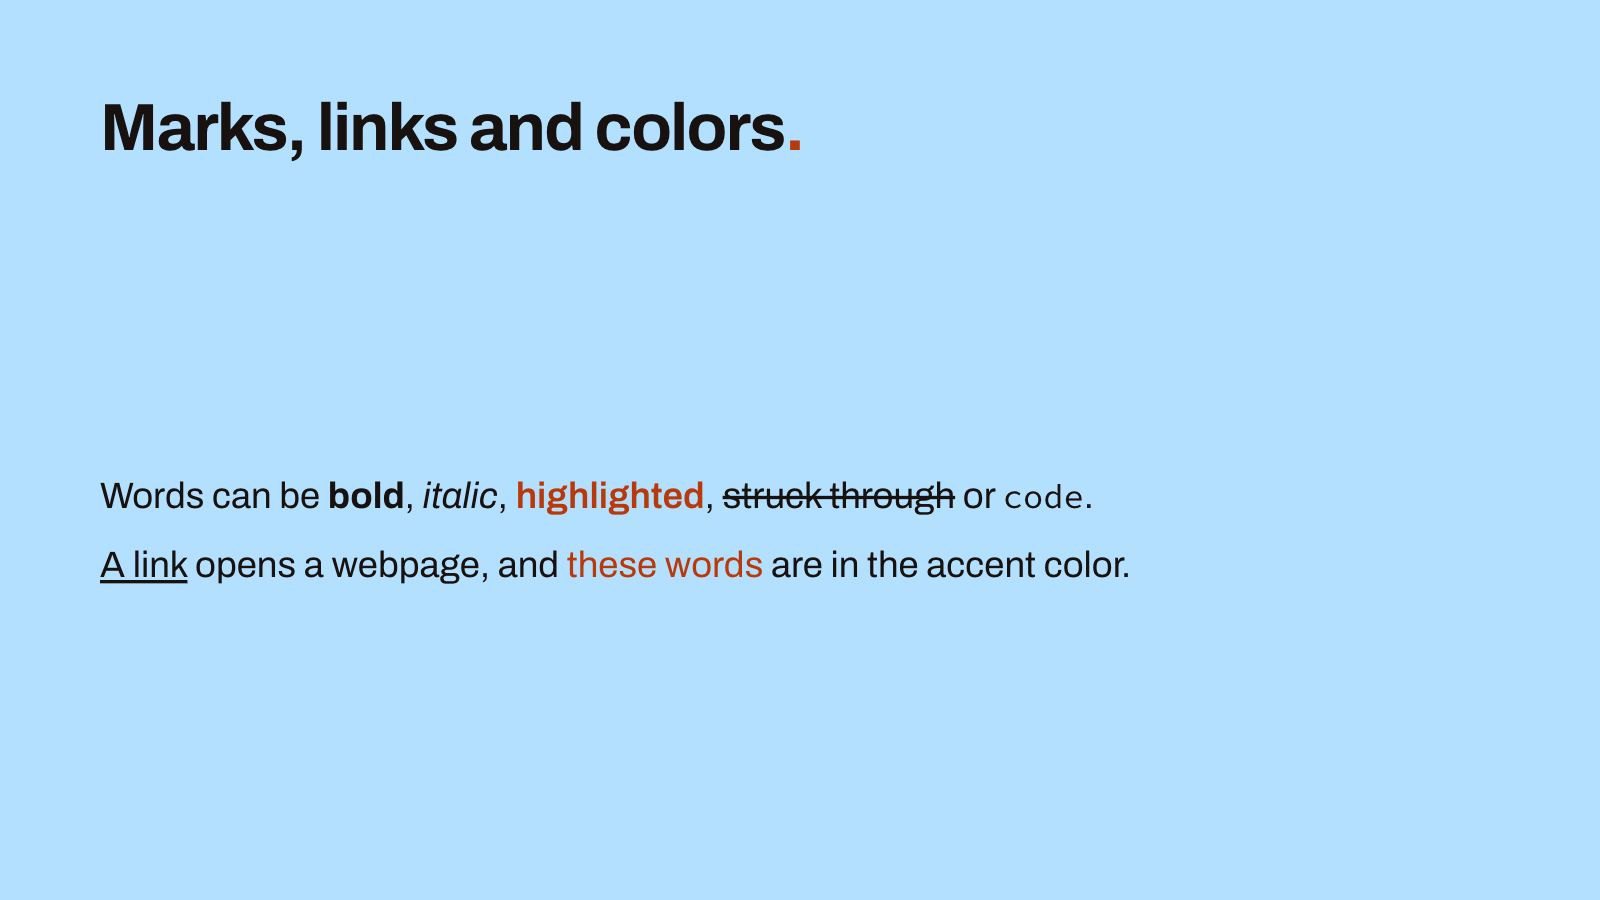
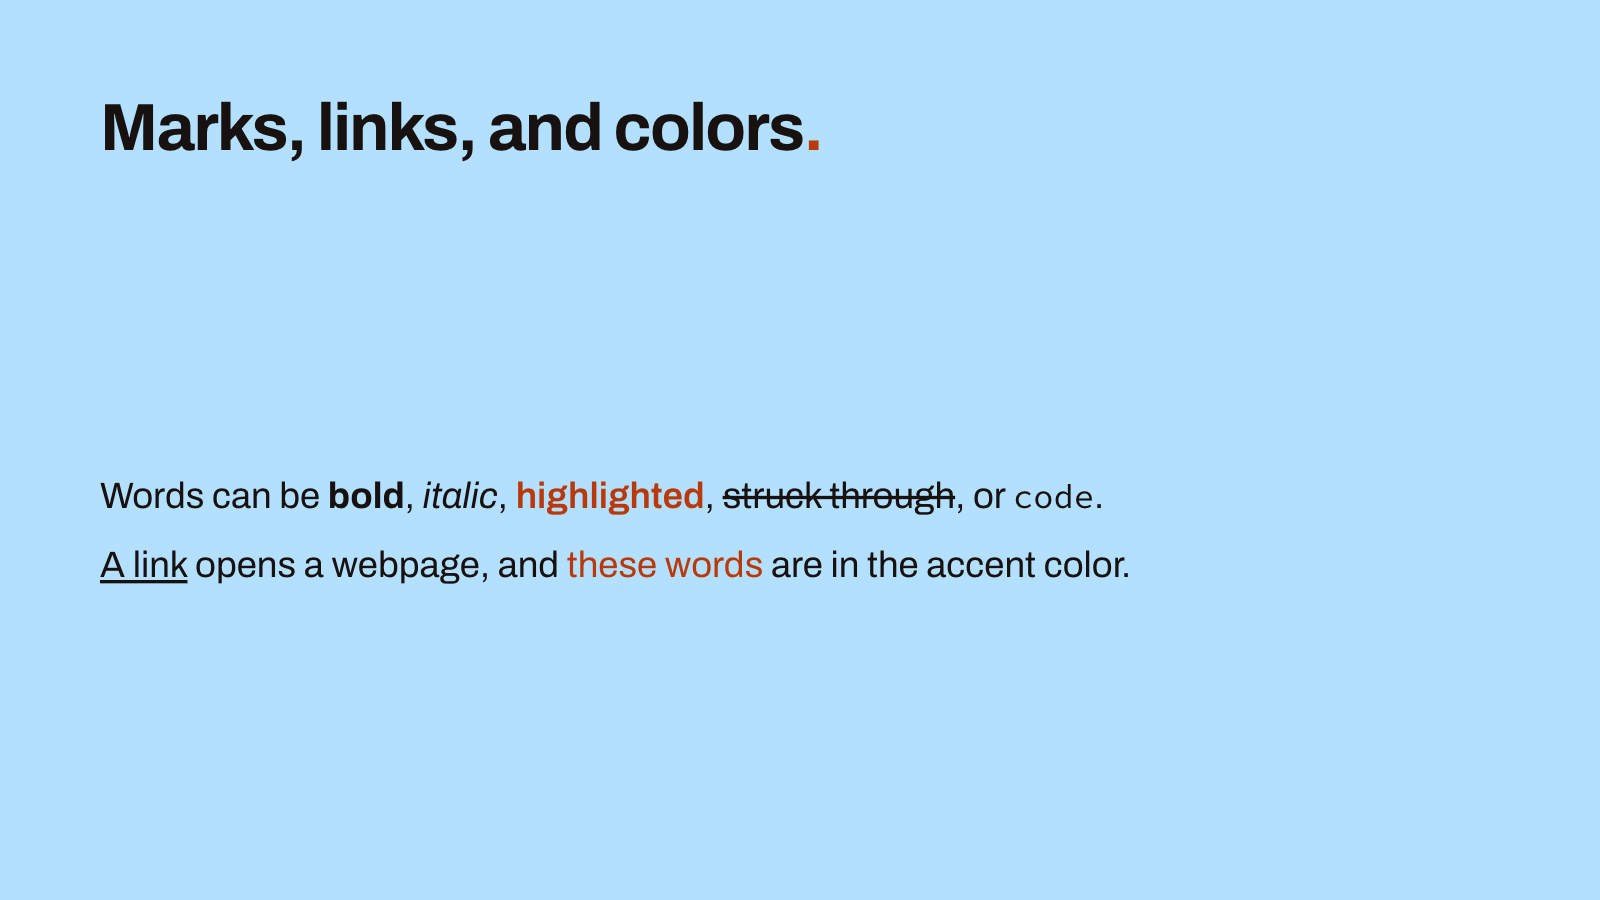
Publish from MarkdownPoint c39c2ddf

Changed region(s): [[0.2812, 0.0933, 0.5, 0.1867], [0.5938, 0.5289, 0.6875, 0.56]]

diff --git a/examples/motion/slides.md b/examples/motion/slides.md
@@ -79,7 +79,7 @@ A turn back
 A curved path
 
 <!-- text: caption -->
-The card loops, the dots bob, the oval zooms evenly, a dot turns back halfway and the last one arcs over.
+The card loops, the dots bob, the oval zooms evenly, a dot turns back halfway, and the last one arcs over.
 
 <!-- notes -->
 The card slides in past its resting position, settles, and then swings right and back, looping until the three-second step ends. With its curve's `loop`, the keyframes play again from its `loop-keyframe`, `card-settles`, to the last one. The slide-in plays once. The two dots bob on waves from `oscillate`. One is a triangle wave that starts a quarter of the way into its cycle, and the other is a noise wave from seed 7. The oval starts at a `scale` of 0.5 by 0.25 and grows fourfold. With `exponential-scale`, the zoom looks even. The fourth dot heads for the far side, but its keyframe cuts that move off halfway, and the dot turns back. The keyframe's `interrupted` names the move it cuts off. The last dot arcs over to the right. Its curve animates `frame.xy`, both coordinates as one point. With its keyframe's `path`, the move bends along a path in the move's own coordinates, from the start at 0 0 to the end at 1 0. The slide leaves through its transition's `color`, the accent color.

diff --git a/md-file.md b/md-file.md
@@ -37,7 +37,7 @@ Two files, one deck==.==
 
 <!-- text: body -->
 - **slides.md** has the words
-- **presentation.mdpoint** has the layout, styles and steps
+- **presentation.mdpoint** has the layout, styles, and steps
 - The theme is a folder in **themes**
 
 <!-- section: finish -->
@@ -174,10 +174,10 @@ Text objects, tables, and speaker notes use Markdown. The [reference](reference/
 <!-- slide: marks -->
 
 <!-- text: title -->
-Marks, links and colors==.==
+Marks, links, and colors==.==
 
 <!-- text: body -->
-Words can be **bold**, *italic*, ==highlighted==, ~~struck through~~ or `code`.
+Words can be **bold**, *italic*, ==highlighted==, ~~struck through~~, or `code`.
 
 [A link](https://markdownpoint.com) opens a webpage, and [these words]{color=accent} are in the accent color.
 ```

diff --git a/examples/words/slides.md b/examples/words/slides.md
@@ -9,10 +9,10 @@ id: 9d98709f-0aac-407e-b6d3-56da6b8494aa
 <!-- slide: marks -->
 
 <!-- text: title -->
-Marks, links and colors==.==
+Marks, links, and colors==.==
 
 <!-- text: body -->
-Words can be **bold**, *italic*, ==highlighted==, ~~struck through~~ or `code`.
+Words can be **bold**, *italic*, ==highlighted==, ~~struck through~~, or `code`.
 
 [A link](https://markdownpoint.com) opens a webpage, and [these words]{color=accent} are in the accent color.
 

diff --git a/examples/first-deck/slides.md b/examples/first-deck/slides.md
@@ -28,7 +28,7 @@ Two files, one deck==.==
 
 <!-- text: body -->
 - **slides.md** has the words
-- **presentation.mdpoint** has the layout, styles and steps
+- **presentation.mdpoint** has the layout, styles, and steps
 - The theme is a folder in **themes**
 
 <!-- section: finish -->
